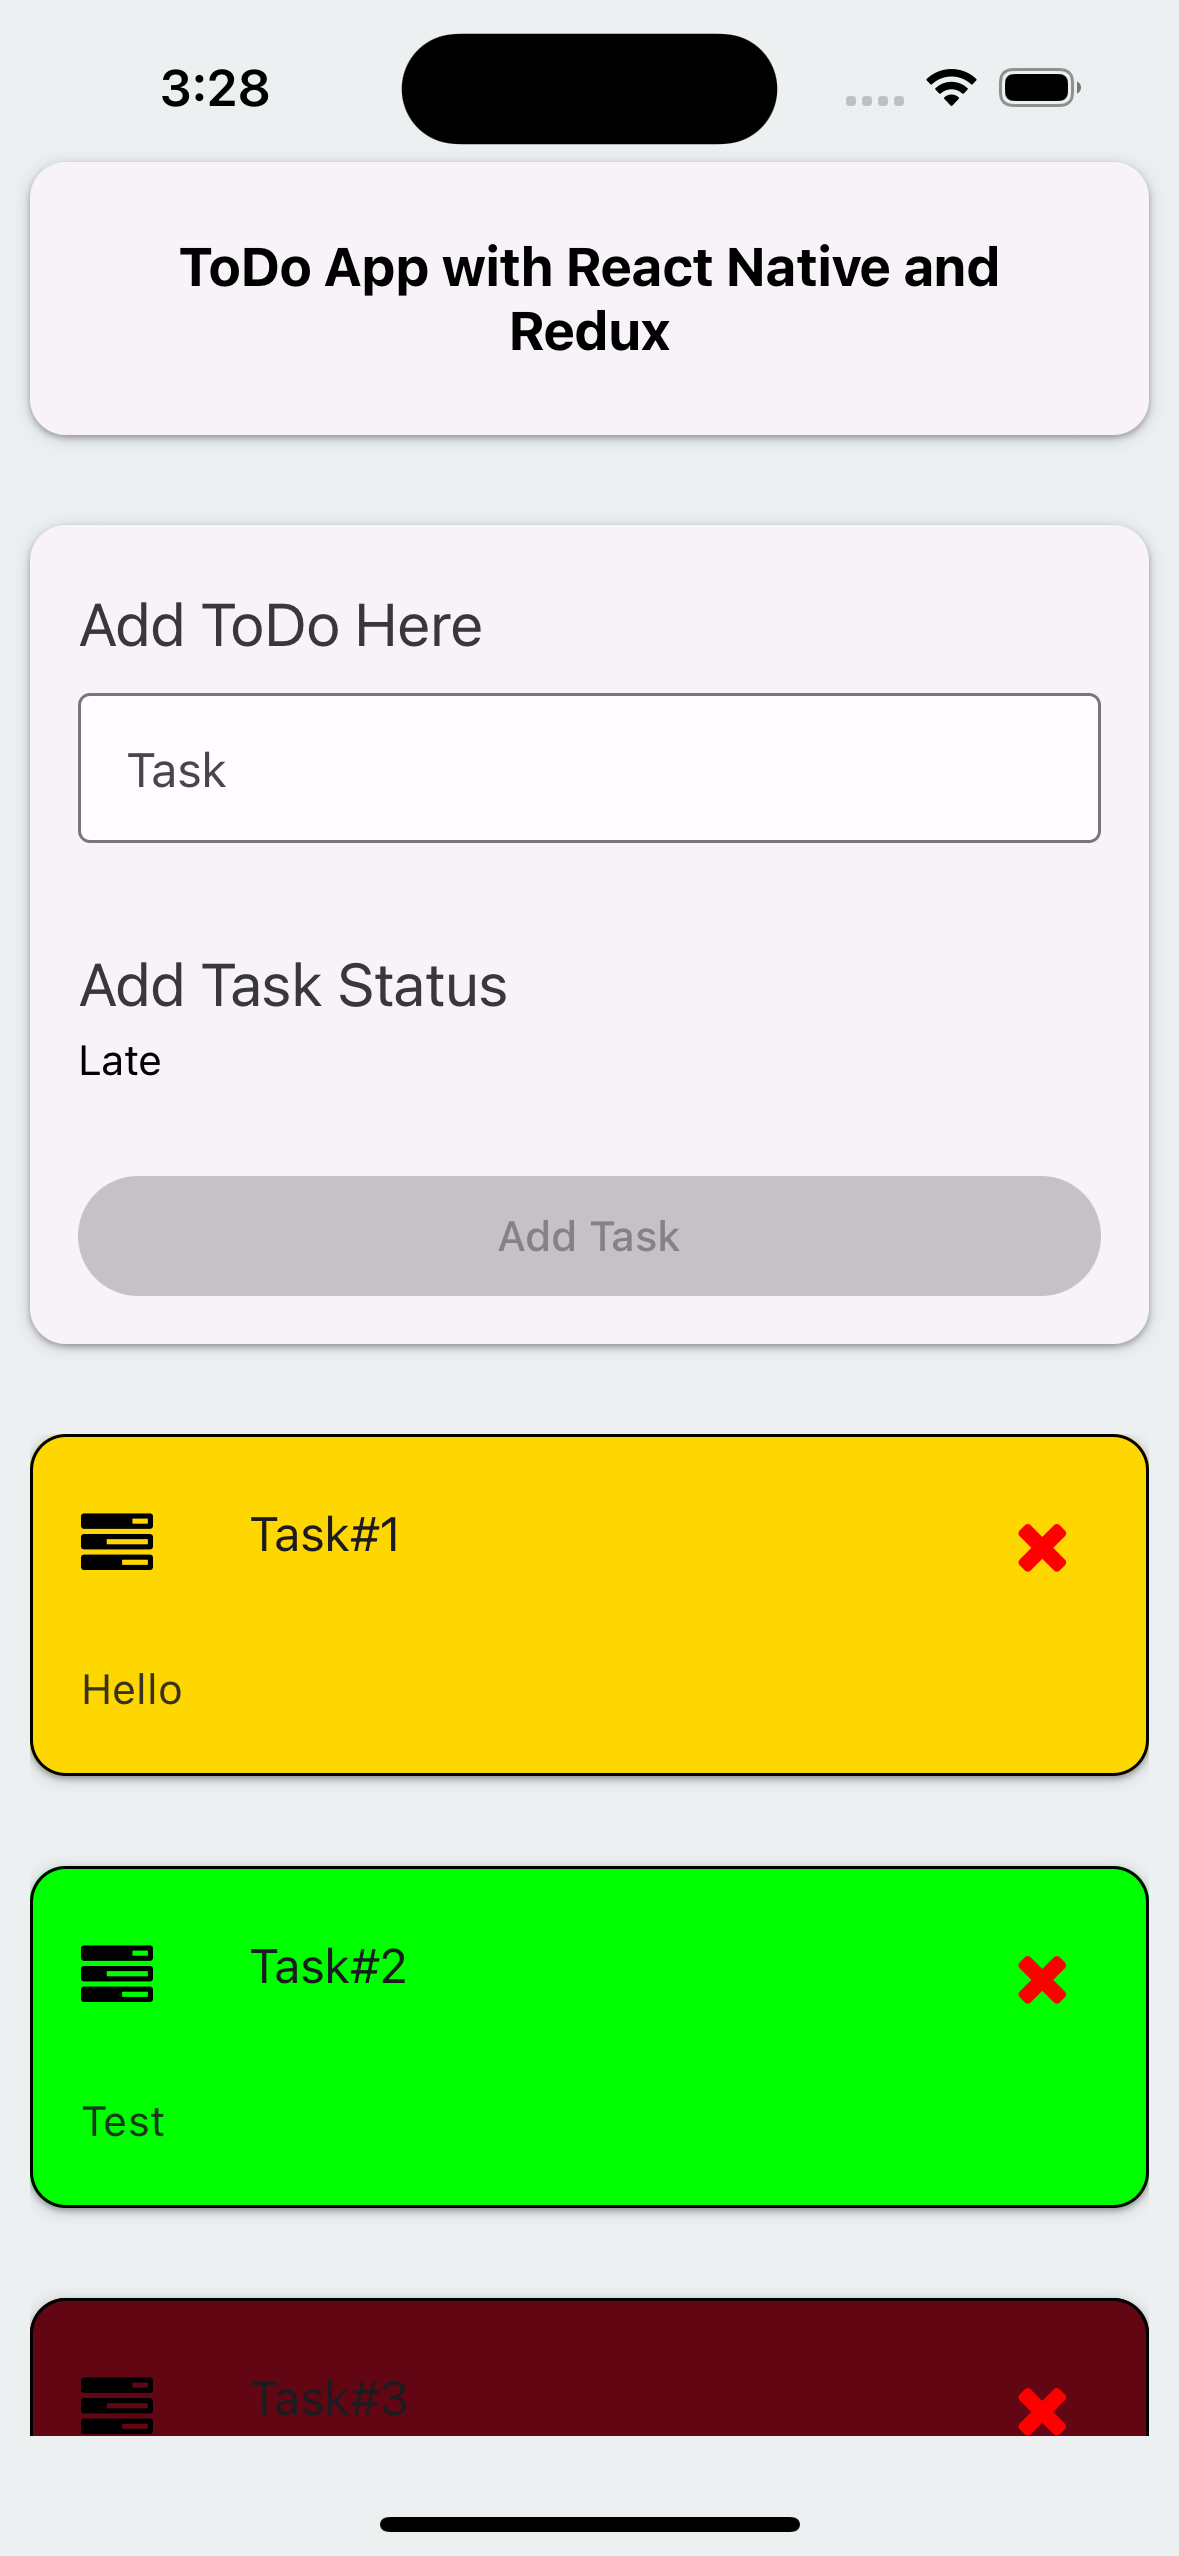
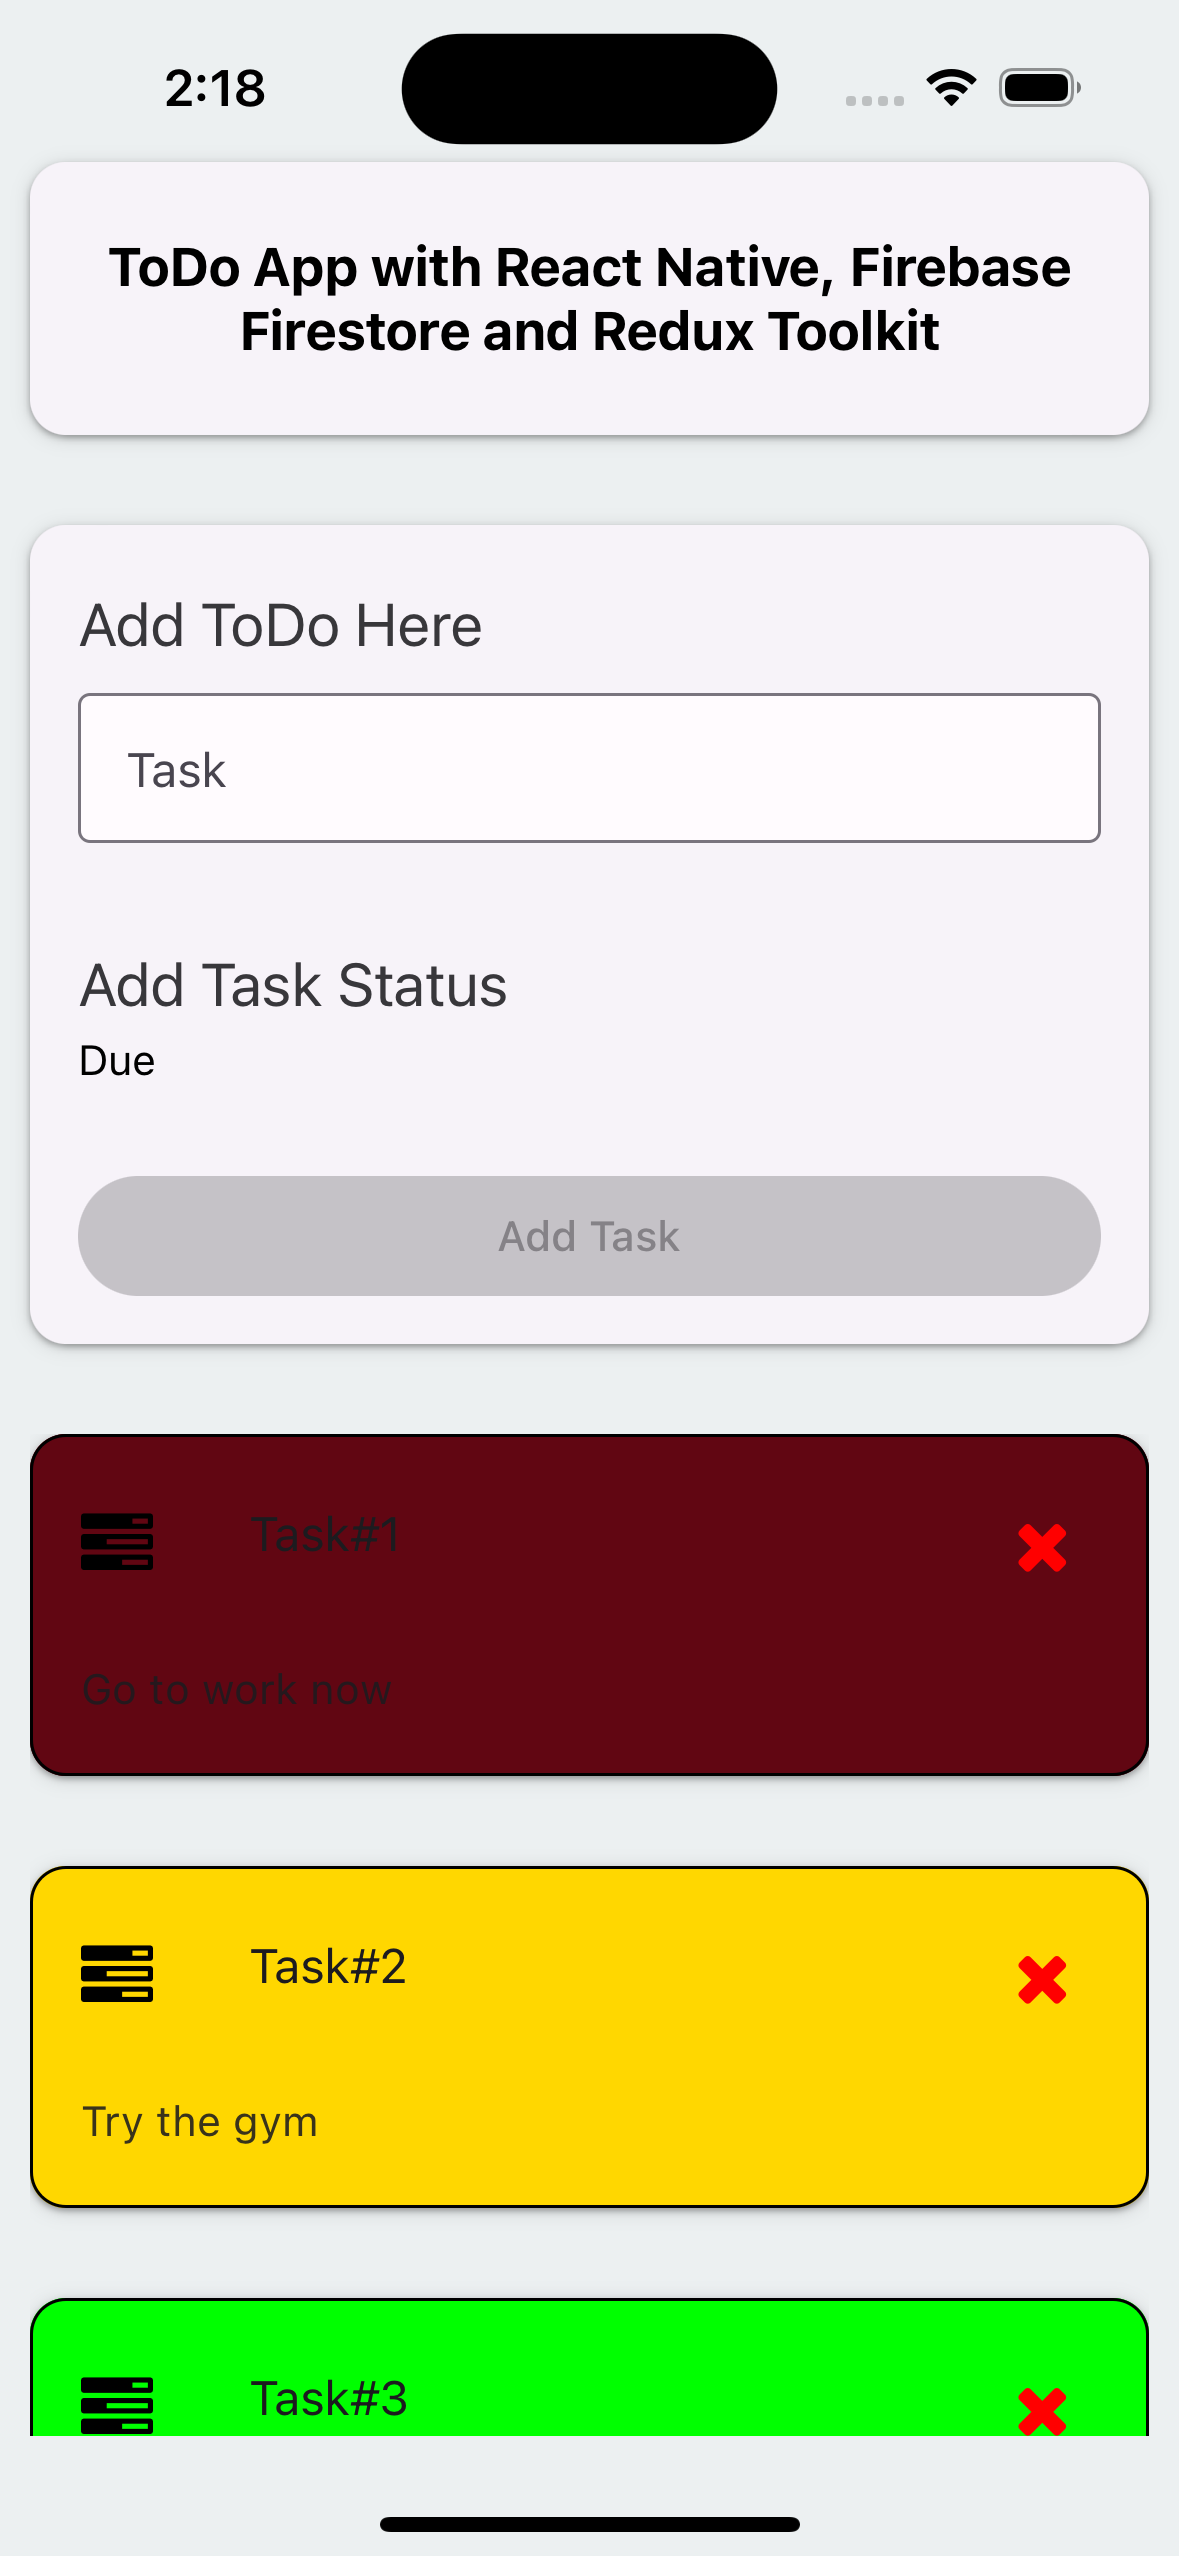
new changes

diff --git a/screens/TodoApp.js b/screens/TodoApp.js
@@ -141,7 +141,7 @@ const handleDeleteTodo = async (id) => {
     <View style={styles.container}>
       <Card title="Card Title">
         <Text style={styles.paragraph}>
-          ToDo App with React Native and Redux
+          ToDo App with React Native, Firebase Firestore and Redux Toolkit
         </Text>
       </Card>
       <Spacer />
